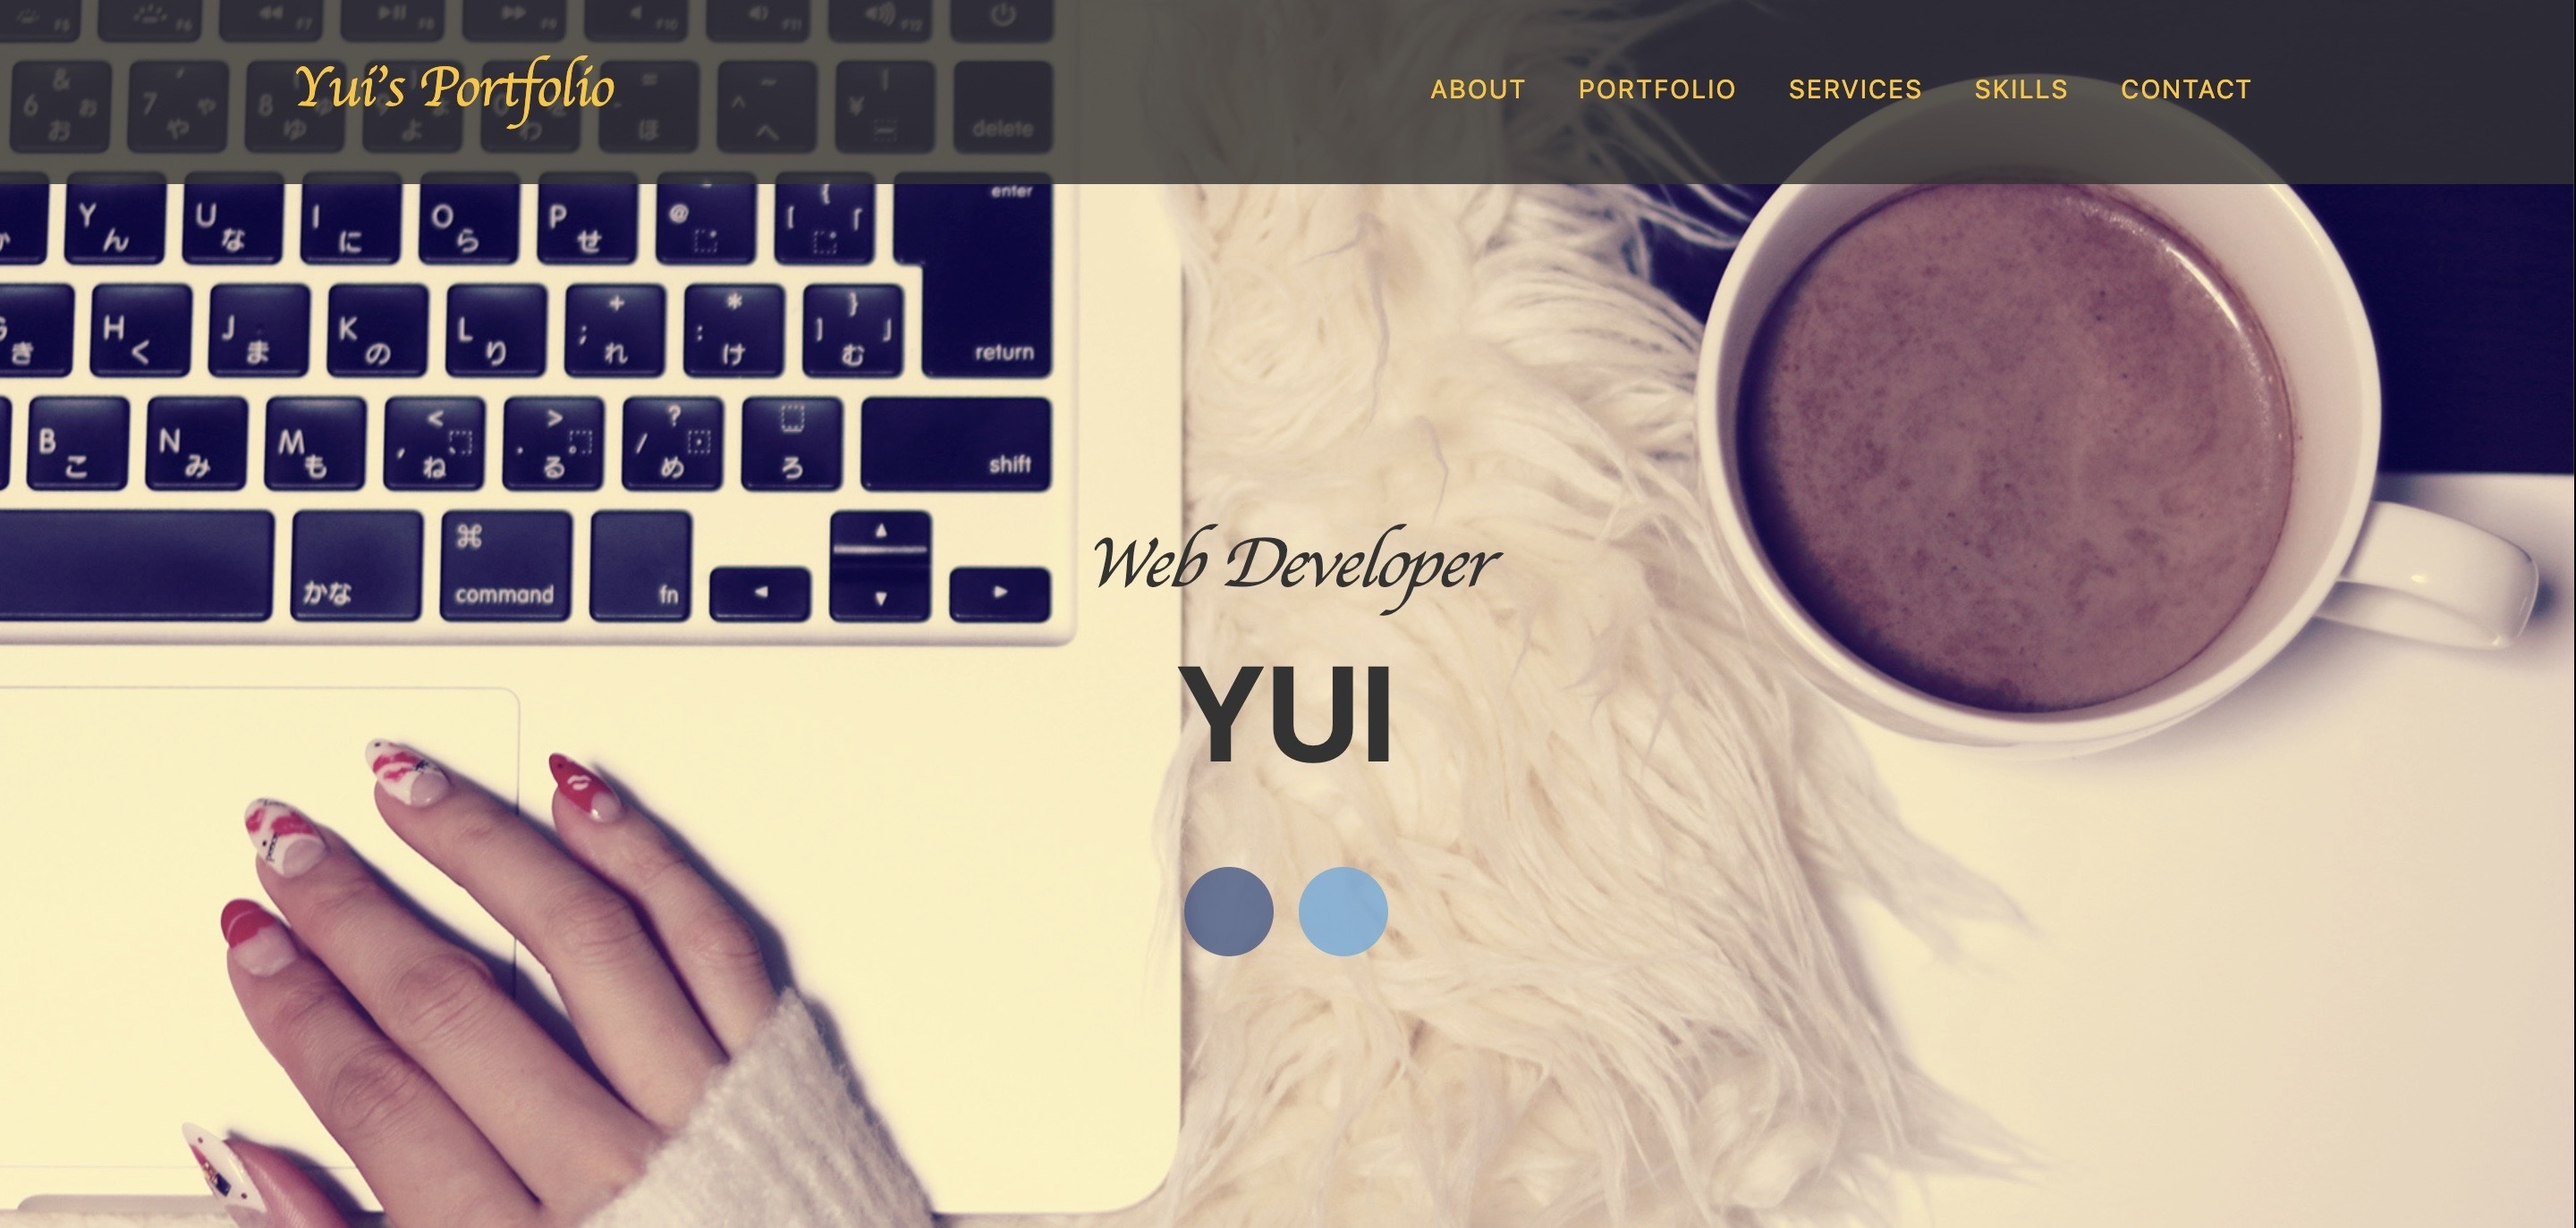
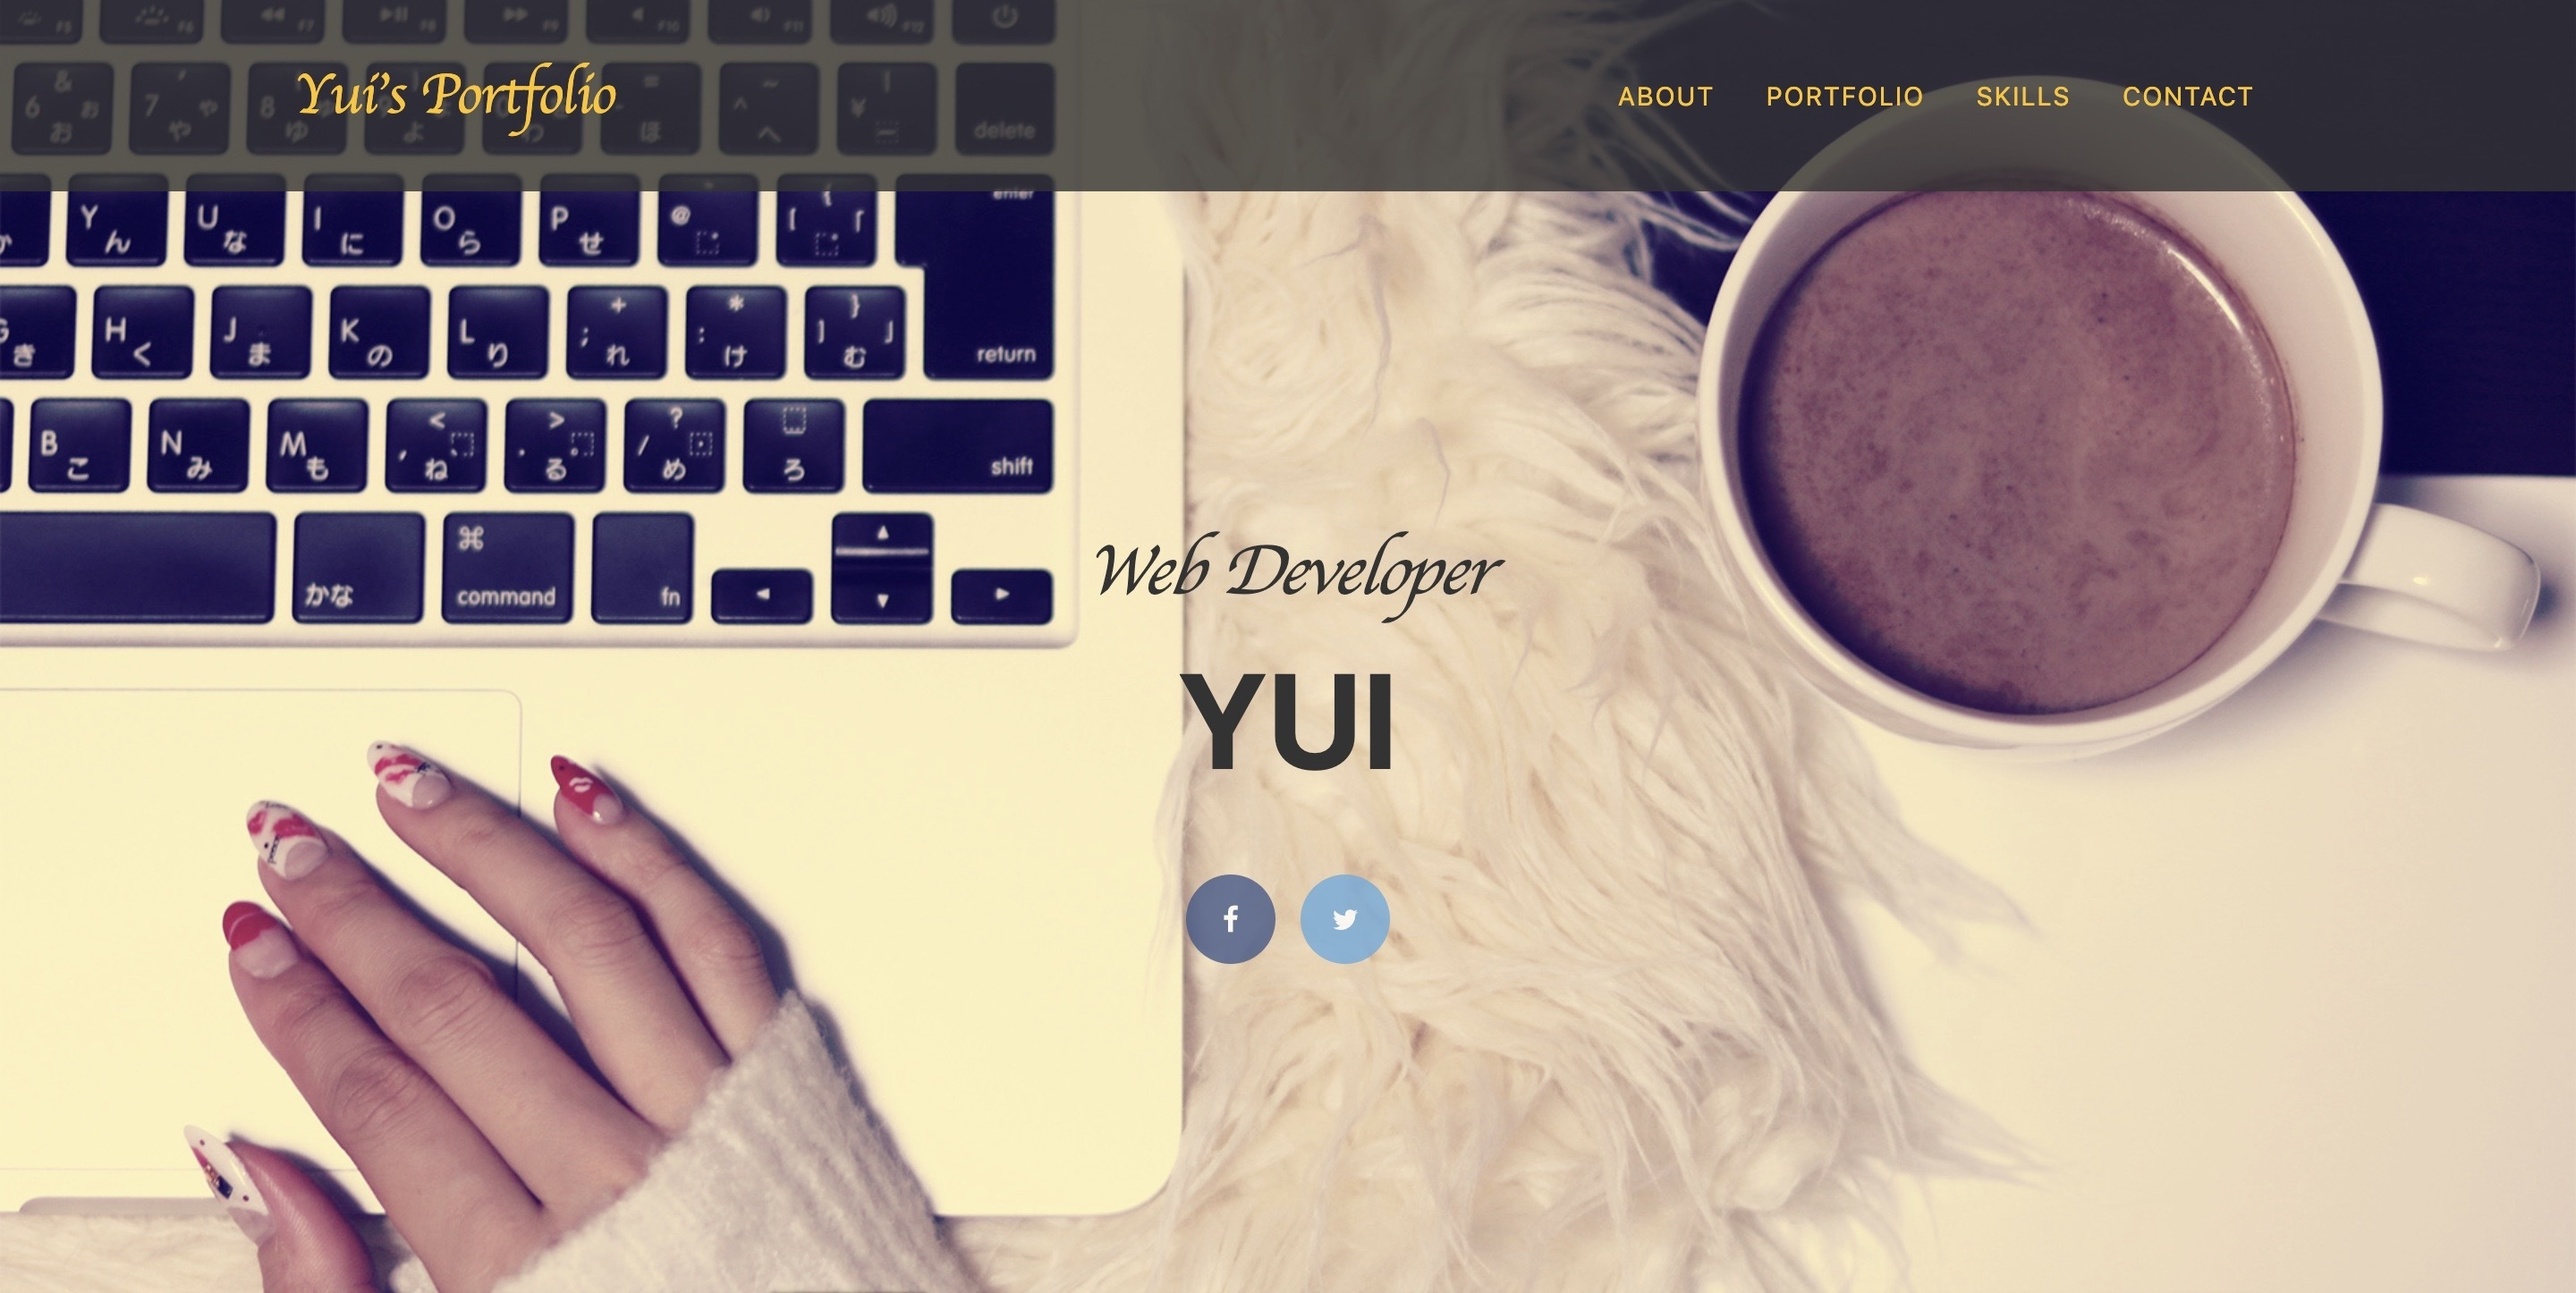
fontawesomeの文字化け修正

diff --git a/index.html b/index.html
@@ -12,7 +12,7 @@
 
 	<link href="css/gaogao.css" rel="stylesheet">
 	<link href="css/style.css" rel="stylesheet">
-	<link rel="stylesheet" href="//maxcdn.bootstrapcdn.com/font-awesome/4.3.0/css/font-awesome.min.css">
+	<link rel="stylesheet" href="https://maxcdn.bootstrapcdn.com/font-awesome/4.3.0/css/font-awesome.min.css">
 </head>
 
 <body id="page-top">
@@ -56,8 +56,8 @@
 				<div class="intro-heading text-uppercase">Yui</div>
 				<!-- <a class="btn btn-primary btn-xl text-uppercase js-scroll-trigger" href="#about">Start</a> -->
 				<div class="btn-wrapper">
-						<a class="box facebook" href="#" ><span class="fa fa-twitter"></span></a>
-						<a class="box twitter" href="#" ><span class="fa fa-facebook"></span></a>
+						<a class="box facebook" href="#" ><span class="fa fa-facebook"></span></a>
+						<a class="box twitter" href="#" ><span class="fa fa-twitter"></span></a>
 				</div>
 			</div>
 		</div>
@@ -72,9 +72,9 @@
 
 					<img class="facePhoto" src="img/lp_6.jpg" alt="私のプロフィール写真">
 					<ul class="self-introduction">
-						<li>瀧口 唯[Takiguchi Yui]</li>
-						<li>平成６年生まれ</li>
-						<li>東京都在住</li>
+						<li><i class="fa fa-angle-right"></i>瀧口 唯[Takiguchi Yui]</li>
+						<li><i class="fa fa-angle-right"></i>平成６年生まれ</li>
+						<li><i class="fa fa-angle-right"></i>東京都在住</li>
 					</ul>
 					<p>人々の役に立つものを自分自身の手で作りたいという思いからWEB制作の勉強を開始しました。現在は、PHPを勉強中です！お気軽にTwitterやFacebookをフォローしてください！</p>
 				</div>	
@@ -97,7 +97,7 @@
 					</span>
 				</div>
 				<div class="col-md-6">
-					<a class="portfolio-link" data-toggle="modal" href="#portfolioModal2">
+					<a class="portfolio-link" href="https://yuitakiguchi.github.io/My_introduction/">
 						<h4 class="service-heading">MY PORTFOLIO</h4>
 						
 					</a>
@@ -181,7 +181,7 @@
 				</div>
 				<div class="col-sm-4">
 					<div class="skills">
-						<img class="mx-auto rounded-circle " src="img/lp_9.png" alt="">
+						<img class="mx-auto rounded-circle" id="php" src="img/lp_9.png" alt="">
 						<h4>PHP</h4>
 						<p class="text-muted">Hypertext Preprocessor</p>
 					</div>
@@ -252,7 +252,7 @@
 	<footer class="bg-light footer">
 		<div class="container">
 			<div class="row align-items-center">
-				<div class="col-md-6">
+				<div class="col-md-12">
 					<span class="copyright">Copyright &copy; Yui's Portfolio 2020</span>
 				</div>
 				<!-- <div class="col-md-6"> -->

diff --git a/css/style.css b/css/style.css
@@ -60,12 +60,22 @@ header.masthead {
 .facebook{
   background-color: #3b5998;
   margin-right: 10px;
+  color: #fff;
+  line-height: 50px;
 }
 
+.fa-facebook:before {
+  color: white;
+}
 
+.fa-twitter:before {
+  color: white;
+}
 
 .twitter{
   background-color: #55acee;
+  color: #fff;
+  line-height: 50px;
 }
 
 .twitter:hover {
@@ -76,9 +86,18 @@ header.masthead {
   opacity: 1;
 }
 
+.page-section {
+  height: 700px;
+}
+
 .page-section h2.section-heading {
   margin-bottom: 75px;
   color: #333;
+}
+
+.fa-angle-right:before {
+  font-weight: bold;
+  margin-right: 5px;
 }
 
 #about .facePhoto{
@@ -107,12 +126,6 @@ header.masthead {
 }
 
 
-.self-introduction li::before{
-  content: "\f0da";
-  font-family: "Font Awesome 5 Free";
-  font-weight: 900;
-  margin-right: 15px;
-}
 
 .col-lg-12 p{
   width: 500px;
@@ -128,11 +141,12 @@ header.masthead {
   border: initial;
 }
 
-.skills img .php{
-  width: 100px;
+#php{
+  object-fit: contain;
 }
 
 .fa-stack img{
   width: 400px;
   height: 300px;
 }
+contain
